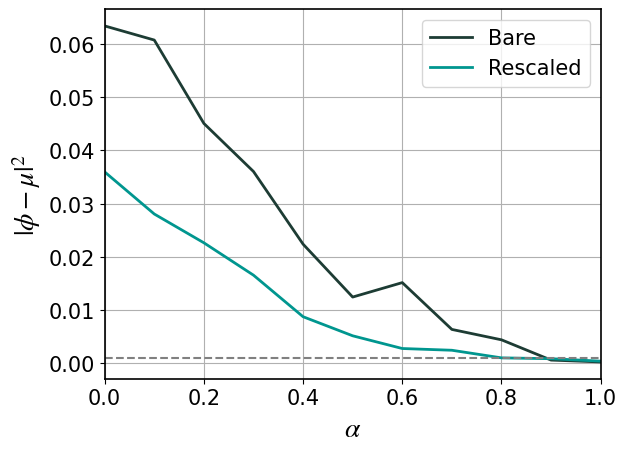
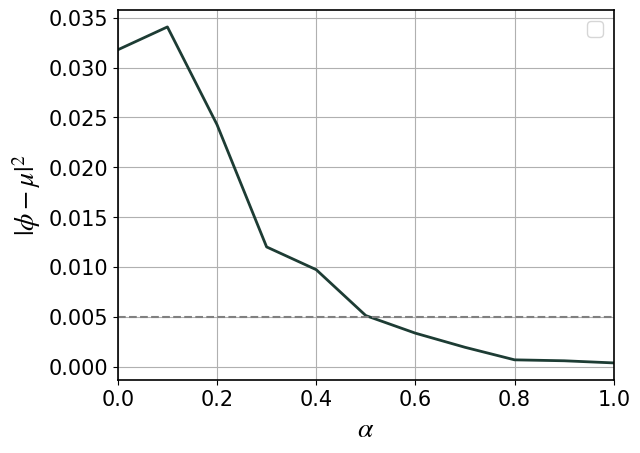
corrections added

Changed region(s): [[0.0, 0.0, 1.0, 0.8982], [0.5455, 0.9292, 0.6061, 0.9912]]

diff --git a/avqe/aVQE.py b/avqe/aVQE.py
@@ -1,6 +1,7 @@
 import random
 import numpy as np
-from numpy import pi, exp, cos, sin, log
+from numpy import pi
+from math import sin, cos, exp, sqrt, log
 import warnings
 
 
@@ -10,7 +11,9 @@ class AVQE():
     - exact updates instead of rejection sampling
     - different probability function to represent
         no collapse process
-    - alpha has been removed and replaced with m_max
+    - alpha has been removed and replaced with max_depth;
+        the maximum number of times 
+        the untiary U can be applied
 
 
     Inputs
@@ -18,60 +21,62 @@ class AVQE():
     REQUIRED:
         phi : float 
             phase value to estimate
-        m_max : int
+        max_depth : int
             maximum value of M (unitary repetitions)
 
     OPTIONAL:
-        accuracy: float : default = 0.001
+        accuracy: float : default = 0.005
             accuracy in result, exit criteria
-        sigma : float : default = pi/2
+        sigma : float : default = pi/4
             initial variance
         max_shots : int : default = 10000
-            maximum number of runs to do
+            maximum number of circuit measurements to do
 
     Outputs
     -------
-        cos(mu / 2) : float
-            Estimated angle
-        cos(self.phi / 2) : float
-            True angle
+        error : float
+            Absolute error between real and estimated
+        run : int
+            Number of shots taken
 
     Raises
     -------
-    WARNINGS for poorly chosen values of accuracy, nSamples and sigma
-    VALUEERROR for alpha <0 or >1
+    WARNINGS for poorly chosen values of accuracy and sigma
+
     """
 
-    def __init__(self, phi, max_m, accuracy=10**-3, sigma=pi/2, max_shots=10**4):
+    def __init__(self, phi, max_depth, accuracy=5*10**-3, sigma=pi/4, max_shots=10**4):
         self.phi = phi
-        self.max_m = max_m
+        self.max_depth = max_depth
         self.accuracy = accuracy
         self.sigma = sigma
         self.max_shots = max_shots
 
         if self.accuracy < 10**-5:
             warnings.warn(f"Accuracy goal set extremely low;" +
-                          " will likely hit max_runs before convergence.")
+                          " will likely hit max_shots before convergence.")
 
         if self.sigma > 2*pi:
             warnings.warn(f"Initial variance is high," +
-                          " will likely hit max_runs before convergence.")
+                          " will likely hit max_shots before convergence.")
 
     def get_max_shots(self):
-        if self.max_m < 1/self.accuracy:
-            n_max = (2 / (1 - log(self.max_m)/log(1/self.accuracy))) * \
-                (1 / (self.accuracy * self.max_m)**2 - 1)
+        "Get the theoretical maximum number of required shots"
+        if self.max_depth < 1/self.accuracy:
+            n_max = (2 / (1 - log(self.max_depth)/log(1/self.accuracy))) * \
+                (1 / (self.accuracy * self.max_depth)**2 - 1)
         else:
             n_max = 4*log(1/self.accuracy)
-
-        return(n_max)
+        return(np.ceil(n_max))
 
     def get_alpha(self):
+        "Get the value of alpha from max_depth for alpha-VQE comparison"
         return(
-            min(1, -log(self.max_m) / log(self.accuracy))
+            min(1, -log(self.max_depth) / log(self.accuracy))
         )
 
     def probability(self, measurement_result, M, theta, phi):
+        "Get outcome probability from circuit"
         return(
             1/2 + (1 - 2*measurement_result) * cos(M * theta) * cos(M * phi)/2
         )
@@ -79,19 +84,21 @@ class AVQE():
     def update_prior(self,
                      mu, M, theta, measurement_result
                      ):
+        "Exact update of the prior distribution"
         d = measurement_result
-        Expectation = mu + ((1-2*d)*M*self.sigma**2 * sin(M*(theta - mu))) / \
-            (exp(M**2 * self.sigma**2 / 2) + (1-2*d)*cos(M*(theta-mu)))
 
-        VarNum = 2*exp(M**2 * self.sigma**2) + (
-            2*(2*d - 1)*exp(M**2 * self.sigma**2 / 2) *
-            ((M**2 * self.sigma**2) - 2)*cos(M*(theta - mu))
+        Expectation = mu + ((1-2*d) * M * self.sigma**2 * sin(M*(theta - mu))) / \
+            (exp(M**2 * self.sigma**2 / 2) + (1-2*d) * cos(M*(theta-mu)))
+
+        VarNum = 2 * exp(M**2 * self.sigma**2) + (
+            2 * (2*d - 1) * exp(M**2 * self.sigma**2 / 2) *
+            ((M**2 * self.sigma**2) - 2) * cos(M*(theta - mu))
         ) + (
             (1 - 2*d)**2 * (1 - (2 * M**2 * self.sigma**2) + cos(2*M*(theta - mu)))
         )
 
         VarDenom = 2 * (
-            exp(M**2 * self.sigma**2 / 2) + (1 - 2*d)*cos(M*(theta - mu))
+            exp(M**2 * self.sigma**2 / 2) + (1 - 2*d) * cos(M*(theta - mu))
         )**2
 
         Variance = self.sigma**2 * (VarNum / VarDenom)
@@ -101,6 +108,9 @@ class AVQE():
         return(Expectation, Std)
 
     def estimate_phase(self):
+        
+        "Estimate the phase value by simulating the circuit"
+
         theory_max_shots = self.get_max_shots()
         if theory_max_shots > self.max_shots:
             warnings.warn(f"Required number of measurements for chosen accuracy is {theory_max_shots}," +
@@ -109,13 +119,15 @@ class AVQE():
 
         mu = random.uniform(-pi, pi)
         run = 0
-        while self.sigma > self.accuracy:
-
+        theta = 0
+        
+        while round(self.sigma, 5) > self.accuracy:
+            
             M = min(
-                max(1, int(round(1 / self.sigma))), self.max_m
+                max(1, int(round(1 / self.sigma))), self.max_depth
             )
 
-            theta = 0
+            
 
             prob_0 = self.probability(0, M, theta, self.phi)
 
@@ -124,9 +136,11 @@ class AVQE():
             else:
                 measurement_result = 1
 
+            
             mu, sigma = self.update_prior(mu, M, theta, measurement_result)
+            
             self.sigma = sigma
-
+            
             run += 1
             if run > self.max_shots:
                 # print(f"Maximum number of runs {self.max_shots} reached; exiting routine.")
@@ -143,7 +157,3 @@ class AVQE():
             # f"  Value estimated: {estimated:.5f}\n  True value: {true:.5f}"
             # +f"\n  Error: {error:.5f}\n  Number of runs: {run}"
         )
-
-
-a = AVQE(phi=-.234892348, max_m=2, max_shots=2*10**6)
-print(a.estimate_phase())

diff --git a/avqe/avqe_test.py b/avqe/avqe_test.py
@@ -1,4 +1,4 @@
-from aVQE import AVQE
+from avqe import AVQE
 import numpy as np
 import random
 from numpy import pi
@@ -8,13 +8,10 @@ import pickle
 from numpy.core.fromnumeric import transpose
 
 
-acc = 0.001
+acc = 0.005
 alpha_values = np.linspace(0, 1, 11)
-max_depth_values = [np.ceil(1/acc**al) + 1 for al in alpha_values]
+max_depth_values = [np.ceil(1/acc**al) for al in alpha_values]
 
-# a = AVQE(phi = 0.8 * pi, max_m=1, max_shots=2*10**6)
-# print(a.estimate_phase())
-# exit()
 
 mRange = 50
 
@@ -23,24 +20,26 @@ bar = FillingCirclesBar("Running simulation", max = mRange*len(max_depth_values)
 results = []
 for max_d in max_depth_values:
     temp = []
-    for _ in range(mRange):
+    solutions = 0
+    while solutions < mRange:
         phi = random.uniform(-pi, pi)
     
-        theoretical_max = AVQE(phi=phi, max_m=max_d).get_max_shots()
-        practical_max = int(1.1 * theoretical_max)
+        theoretical_max = AVQE(phi=phi, max_depth=max_d).get_max_shots()
+        practical_max = np.ceil(1.01 * theoretical_max)
 
-        b = AVQE(phi=phi, max_m=max_d, max_shots=practical_max)
+        b = AVQE(phi=phi, max_depth=max_d, max_shots=practical_max)
         err, run = b.estimate_phase()
         
-        if run == practical_max:
+        if run > practical_max:
             continue
         else:
             temp.append([err, run])
             bar.next()
+            solutions += 1
     results.append(
         [max_d, np.median(transpose(temp)[0]), np.median(transpose(temp)[1])]
     )
 bar.finish()
-
+print(results)
 f = open("data_test_avqe", "wb")
 pickle.dump(results, f)

diff --git a/avqe/plotting.py b/avqe/plotting.py
@@ -17,25 +17,23 @@ legend_size = 15
 def transpose(L):
     return(list(map(list,zip(*L))))
 
-bare = open("data_test", "rb")
+bare = open("data_test_avqe", "rb")
 data = pickle.load(bare)
 
-# rescaled = open("data_test_rescaled", "rb")
-# data_rescaled = pickle.load(rescaled)
 
-alphas, errs, runs = transpose(data)
+max_depths, errs, runs = transpose(data)
 
-plt.plot(alphas, errs, linewidth = 2, color = colours[0])
-plt.plot(alphas, [0.005]*len(errs), '--', linewidth = 1.5, color = 'gray')
+plt.plot(max_depths, errs, linewidth = 2, color = colours[0])
+plt.plot(max_depths, [0.005]*len(errs), '--', linewidth = 1.5, color = 'gray')
 plt.xticks(size = tick_size)
 plt.yticks(size = tick_size)
 
 plt.ylabel(r'$|\phi - \mu|^2$', fontsize = label_size)
-plt.xlabel(r'$\alpha$', fontsize = label_size)
-plt.legend(fontsize = legend_size)
-plt.xlim(0, 1)
+plt.xlabel(r'$D$', fontsize = label_size)
+# plt.legend(fontsize = legend_size)
+# plt.xlim(0, 1)
 
 plt.grid(True)
-plt.savefig('alpha_v_err.png', bbox_inches='tight')
+plt.savefig('max_depth_v_err.png', bbox_inches='tight')
 plt.clf()
 

diff --git a/alpha-VQE/alpha_vqe.py b/alpha-VQE/alpha_vqe.py
@@ -20,7 +20,7 @@ class Alpha_VQE():
             rejection sampling on
 
     OPTIONAL:
-        accuracy: float : default = 0.001
+        accuracy: float : default = 0.005
             accuracy in result, exit criteria
         alpha : float : default = 0
             alpha parameter, 0 < alpha < 1
@@ -35,10 +35,10 @@ class Alpha_VQE():
 
     Outputs
     -------
-        cos(mu / 2) : float
-            Estimated angle
-        cos(self.phi / 2) : float
-            True angle
+        error : float
+            Absolute error between real and estimated
+        run : int
+            Number of shots taken
 
     Raises
     -------
@@ -136,7 +136,7 @@ class Alpha_VQE():
 
         run = 0
 
-        while self.sigma > self.accuracy:
+        while round(self.sigma, 5) > self.accuracy:
             M = max(1, int(round(1 / self.sigma**self.alpha)))
             theta = mu - self.sigma
 

diff --git a/alpha-VQE/alpha_vqe_test.py b/alpha-VQE/alpha_vqe_test.py
@@ -1,5 +1,5 @@
 from numpy.core.fromnumeric import transpose
-from alphaVQE import Alpha_VQE
+from alpha_vqe import Alpha_VQE
 import numpy as np
 import random
 from numpy import pi
@@ -8,7 +8,7 @@ import os
 import pickle
 
 alpha_values = np.linspace(0, 1, 11)
-mRange = 100
+mRange = 500
 
 bar = FillingCirclesBar("Running simulation", max = mRange*len(alpha_values), suffix = '%(percent).2f%% [%(elapsed_td)s]')
 
@@ -17,7 +17,7 @@ for alpha in alpha_values:
     temp = []
     for _ in range(mRange):
         phi = random.uniform(-pi, pi)
-        a = Alpha_VQE(phi=phi, nSamples=100, alpha = alpha)
+        a = Alpha_VQE(phi=phi, nSamples=100, alpha = alpha, rescaled=1)
         max_shots = a.get_max_shots()
         err, run = a.estimate_phase()
         temp.append([err, run, max_shots])
